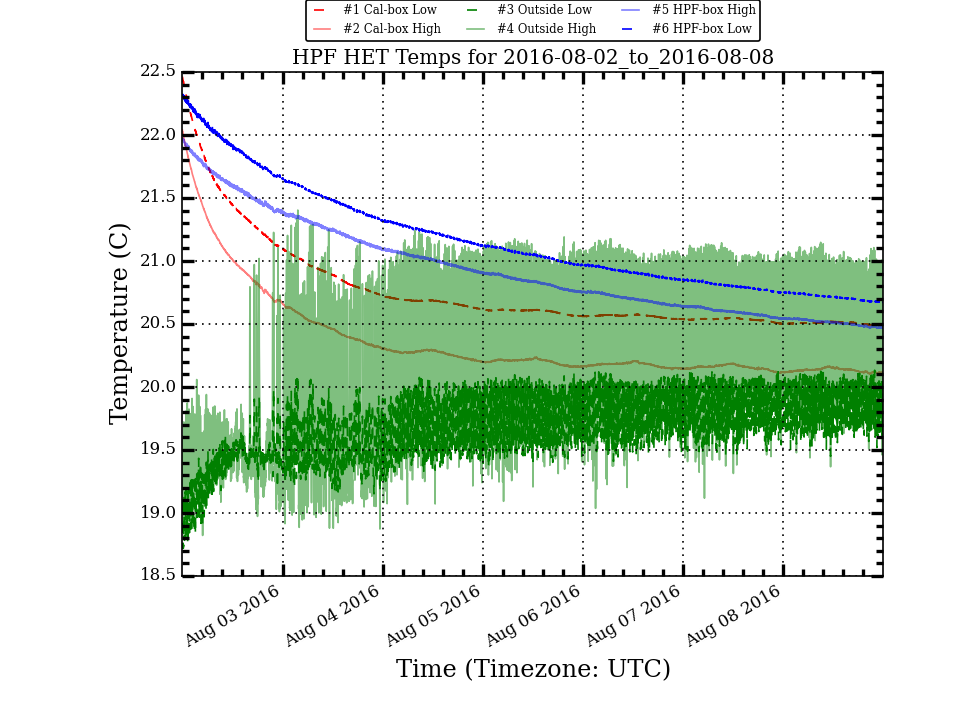
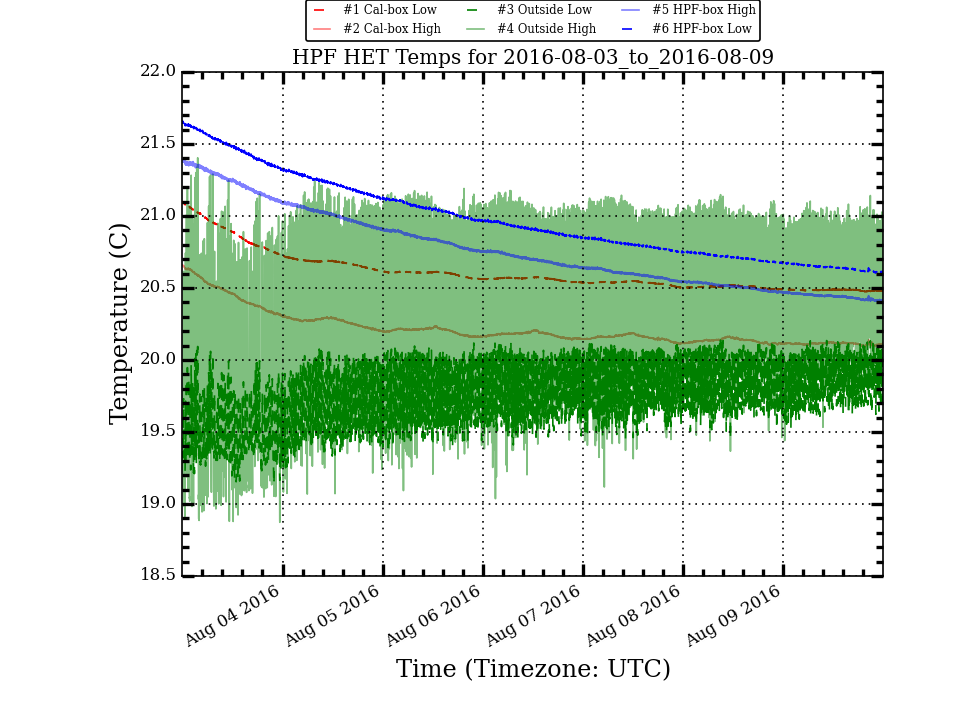
Update HPF Temp Plots

diff --git a/research/hpf_temps/plots/LakeShoreLogTotal_week_stats.html b/research/hpf_temps/plots/LakeShoreLogTotal_week_stats.html
@@ -10,56 +10,56 @@
  </TR>
  <TR>
   <TD>Cal_Low</TD>
-  <TD>20.759</TD>
-  <TD>0.370</TD>
-  <TD>20.607</TD>
-  <TD>22.460</TD>
-  <TD>20.489</TD>
-  <TD>1.971</TD>
+  <TD>20.608</TD>
+  <TD>0.137</TD>
+  <TD>20.564</TD>
+  <TD>21.100</TD>
+  <TD>20.474</TD>
+  <TD>0.626</TD>
  </TR>
  <TR>
   <TD>Cal_High</TD>
-  <TD>20.357</TD>
-  <TD>0.355</TD>
-  <TD>20.207</TD>
-  <TD>22.039</TD>
-  <TD>20.103</TD>
-  <TD>1.936</TD>
+  <TD>20.214</TD>
+  <TD>0.118</TD>
+  <TD>20.174</TD>
+  <TD>20.661</TD>
+  <TD>20.092</TD>
+  <TD>0.569</TD>
  </TR>
  <TR>
   <TD>Out_Low</TD>
-  <TD>19.709</TD>
-  <TD>0.249</TD>
-  <TD>19.745</TD>
+  <TD>19.785</TD>
+  <TD>0.203</TD>
+  <TD>19.823</TD>
   <TD>20.138</TD>
-  <TD>18.720</TD>
-  <TD>1.418</TD>
+  <TD>19.152</TD>
+  <TD>0.986</TD>
  </TR>
  <TR>
   <TD>Out_High</TD>
-  <TD>20.229</TD>
-  <TD>0.587</TD>
-  <TD>20.315</TD>
+  <TD>20.376</TD>
+  <TD>0.515</TD>
+  <TD>20.447</TD>
   <TD>21.404</TD>
-  <TD>18.822</TD>
-  <TD>2.582</TD>
+  <TD>18.873</TD>
+  <TD>2.531</TD>
  </TR>
  <TR>
   <TD>HPF_High</TD>
-  <TD>20.929</TD>
-  <TD>0.372</TD>
-  <TD>20.837</TD>
-  <TD>21.974</TD>
-  <TD>20.466</TD>
-  <TD>1.508</TD>
+  <TD>20.761</TD>
+  <TD>0.269</TD>
+  <TD>20.700</TD>
+  <TD>21.395</TD>
+  <TD>20.408</TD>
+  <TD>0.987</TD>
  </TR>
  <TR>
   <TD>HPF_Low</TD>
-  <TD>21.158</TD>
-  <TD>0.407</TD>
-  <TD>21.048</TD>
-  <TD>22.324</TD>
-  <TD>20.670</TD>
-  <TD>1.654</TD>
+  <TD>20.974</TD>
+  <TD>0.282</TD>
+  <TD>20.909</TD>
+  <TD>21.658</TD>
+  <TD>20.607</TD>
+  <TD>1.051</TD>
  </TR>
 </TABLE>

diff --git a/research/hpf_temps/plots/LakeShoreLogTotal_month_stats.html b/research/hpf_temps/plots/LakeShoreLogTotal_month_stats.html
@@ -10,26 +10,26 @@
  </TR>
  <TR>
   <TD>Cal_Low</TD>
-  <TD>23.203</TD>
-  <TD>2.067</TD>
-  <TD>24.456</TD>
+  <TD>23.226</TD>
+  <TD>2.034</TD>
+  <TD>24.458</TD>
   <TD>25.643</TD>
-  <TD>19.677</TD>
-  <TD>5.966</TD>
+  <TD>19.930</TD>
+  <TD>5.713</TD>
  </TR>
  <TR>
   <TD>Cal_High</TD>
-  <TD>23.230</TD>
-  <TD>2.319</TD>
+  <TD>23.247</TD>
+  <TD>2.295</TD>
   <TD>24.658</TD>
   <TD>26.856</TD>
-  <TD>19.457</TD>
-  <TD>7.399</TD>
+  <TD>19.717</TD>
+  <TD>7.139</TD>
  </TR>
  <TR>
   <TD>Out_Low</TD>
-  <TD>23.166</TD>
-  <TD>2.659</TD>
+  <TD>23.168</TD>
+  <TD>2.658</TD>
   <TD>24.941</TD>
   <TD>26.532</TD>
   <TD>17.548</TD>
@@ -37,8 +37,8 @@
  </TR>
  <TR>
   <TD>Out_High</TD>
-  <TD>24.794</TD>
-  <TD>3.360</TD>
+  <TD>24.787</TD>
+  <TD>3.369</TD>
   <TD>25.991</TD>
   <TD>31.424</TD>
   <TD>18.327</TD>
@@ -46,20 +46,20 @@
  </TR>
  <TR>
   <TD>HPF_High</TD>
-  <TD>21.859</TD>
-  <TD>1.207</TD>
+  <TD>21.896</TD>
+  <TD>1.143</TD>
   <TD>22.178</TD>
   <TD>23.295</TD>
-  <TD>19.245</TD>
-  <TD>4.050</TD>
+  <TD>19.367</TD>
+  <TD>3.928</TD>
  </TR>
  <TR>
   <TD>HPF_Low</TD>
-  <TD>21.779</TD>
-  <TD>1.126</TD>
+  <TD>21.821</TD>
+  <TD>1.057</TD>
   <TD>22.051</TD>
   <TD>23.075</TD>
-  <TD>19.312</TD>
-  <TD>3.763</TD>
+  <TD>19.431</TD>
+  <TD>3.644</TD>
  </TR>
 </TABLE>
